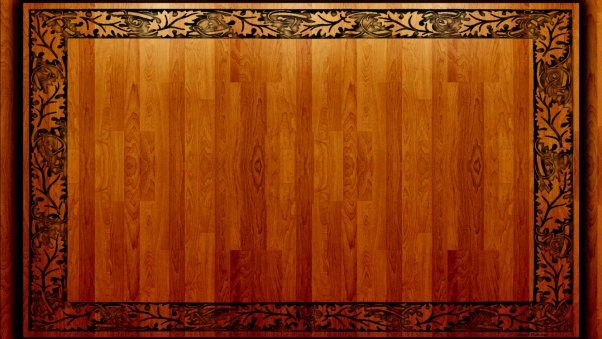
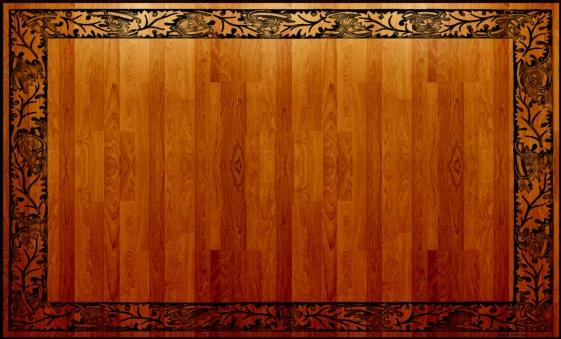
affichage ok, ecouteur bouton en cours

diff --git a/projet-Fanorona-L3-2015/src/IHM/Fenetre.java b/projet-Fanorona-L3-2015/src/IHM/Fenetre.java
@@ -17,19 +17,23 @@ public class Fenetre implements Runnable,Affichage {
 		engine=e;
 	}
 	
-	public void run(){
+	public void run(){		
+
 		frame.setSize(1280, 720);
-		JPanel panelAccueil = new ImagePanel(new ImageIcon("src/images/image1.jpg").getImage());
-		panelAccueil.setLayout(null);
-		
 		int fw = frame.getWidth();
 		int fh = frame.getHeight();
+		JPanel panelAccueil = new ImagePanel(new ImageIcon("src/images/image6.jpg").getImage(), fw, fh);
+		panelAccueil.setLayout(null);
 		
 			//grille
-		monDessin = new AireDeDessin(this);
+		/*monDessin = new AireDeDessin(this);
 			monDessin.addMouseListener(new EcouteurDeSouris(monDessin));
-			monDessin.setBounds(fw/6, (int)(0.3*fh/6), 4*fw/6, 4*fh/6);
-		
+			monDessin.setBounds(fw/6, (int)(0.3*fh/6), 4*fw/6, 4*fh/6);*/
+		JPanel panelPlateau = new ImagePanel(new ImageIcon("src/images/plateau9x5.jpg").getImage(), 4*fw/6, 4*fh/6);
+			panelPlateau.setBounds(fw/6, (int)(0.3*fh/6), 4*fw/6, 4*fh/6);
+		JPanel panelGrille = new ImagePanel(new ImageIcon("src/images/Fanorona.png").getImage(), (int)(3.4*fw/6), (int)(2.8*fh/6));
+			panelGrille.setBounds((int)(1.3*fw/6), (int)(0.9*fh/6), (int)(3.4*fw/6), (int)(2.8*fh/6));
+			
  			//barre de Menu
 		JMenuBar menuBar = new JMenuBar();
 			//menu1
@@ -89,7 +93,7 @@ public class Fenetre implements Runnable,Affichage {
 			
 			//affichages joueurs
 		JLabel j1 = new JLabel(" # Joueur 1 ");
-			j1.setBounds((int)(0.45*fw/6), (int)(0.2*fh/6), (int)(0.8*fw/6), (int)(fh/6));
+			j1.setBounds((int)(0.25*fw/6), (int)(0.2*fh/6), (int)(0.8*fw/6), (int)(fh/6));
 		JLabel idj1 = new JLabel(" Erreur ");
 		JLabel levelj1 = new JLabel(" Erreur ");
 		JLabel j2 = new JLabel(" # Joueur 2 ");
@@ -129,20 +133,20 @@ public class Fenetre implements Runnable,Affichage {
 			idj2 = new JLabel(" Ordinateur ");
 			levelj2 = new JLabel(" Difficile ");
 		}
-			idj1.setBounds((int)(0.45*fw/6), (int)(1.2*fh/6), (int)(0.8*fw/6), (int)(fh/6));
-			levelj1.setBounds((int)(0.45*fw/6), (int)(1.4*fh/6), (int)(0.8*fw/6), (int)(fh/6));
+			idj1.setBounds((int)(0.25*fw/6), (int)(1.2*fh/6), (int)(0.8*fw/6), (int)(fh/6));
+			levelj1.setBounds((int)(0.25*fw/6), (int)(1.4*fh/6), (int)(0.8*fw/6), (int)(fh/6));
 			idj2.setBounds((int)(5.15*fw/6), (int)(1.2*fh/6), (int)(0.8*fw/6), (int)(fh/6));
 			levelj2.setBounds((int)(5.15*fw/6), (int)(1.4*fh/6), (int)(0.8*fw/6), (int)(fh/6));
 		JLabel scoreInt1 = new JLabel("" + engine.partieCourante.nombrePionBlanc);
-			scoreInt1.setBounds((int)(0.45*fw/6), (int)(2.2*fh/6), (int)(0.8*fw/6), (int)(fh/6));
+			scoreInt1.setBounds((int)(0.25*fw/6), (int)(2.2*fh/6), (int)(0.8*fw/6), (int)(fh/6));
 		JLabel scoreInt2 = new JLabel("" + engine.partieCourante.nombrePionNoir);
 			scoreInt2.setBounds((int)(5.15*fw/6), (int)(2.2*fh/6), (int)(0.8*fw/6), (int)(fh/6));
 		JLabel score1 = new JLabel(" Pions restants ");
-			score1.setBounds((int)(0.45*fw/6), (int)(2.4*fh/6), (int)(0.8*fw/6), (int)(fh/6));
+			score1.setBounds((int)(0.25*fw/6), (int)(2.4*fh/6), (int)(0.8*fw/6), (int)(fh/6));
 		JLabel score2 = new JLabel(" Pions restants ");
 			score2.setBounds((int)(5.15*fw/6), (int)(2.4*fh/6), (int)(0.8*fw/6), (int)(fh/6));
 		JLabel tour1 = new JLabel(" A votre tour ! ");
-			tour1.setBounds((int)(0.45*fw/6), (int)(3*fh/6), (int)(0.8*fw/6), (int)(fh/6));
+			tour1.setBounds((int)(0.25*fw/6), (int)(3*fh/6), (int)(0.8*fw/6), (int)(fh/6));
 		JLabel tour2 = new JLabel(" A votre tour ! ");
 			tour2.setBounds((int)(5.15*fw/6), (int)(3*fh/6), (int)(0.8*fw/6), (int)(fh/6));
 		
@@ -151,7 +155,8 @@ public class Fenetre implements Runnable,Affichage {
 		menuBar.add(options);
 		menuBar.add(aide);
 		frame.setJMenuBar(menuBar);
- 		panelAccueil.add(monDessin);
+ 		//panelPlateau.add(panelGrille);
+ 		//panelAccueil.add(monDessin);
  		panelAccueil.add(annuler);
  		panelAccueil.add(refaire);
  		panelAccueil.add(stopper);
@@ -168,6 +173,9 @@ public class Fenetre implements Runnable,Affichage {
  		panelAccueil.add(score2); 		
  		panelAccueil.add(tour1);
  		panelAccueil.add(tour2);
+ 		panelAccueil.add(panelPlateau);
+ 		//panelAccueil.add(panelGrille);
+ 		panelPlateau.add(panelGrille);
  		
  		frame.add(panelAccueil);
 		frame.setResizable(false);

diff --git a/projet-Fanorona-L3-2015/src/IHM/EcouteurDeBouton.java b/projet-Fanorona-L3-2015/src/IHM/EcouteurDeBouton.java
@@ -20,33 +20,46 @@ public class EcouteurDeBouton implements ActionListener{
 	public void actionPerformed(ActionEvent e) {
 		switch (message){
 		case " Nouvelle Partie ":
+			//TODO
 			break;
 		case " Recommencer ":
+			//TODO
 			break;
 		case " Sauvegarder ":
+			//TODO
 			break;
 		case " Charger ":
+			//TODO
 			break;
 		case " Quitter ":
 			System.exit(0);
 			break;
 		case " Paramètres Partie ":
+			//TODO
 			break;
 		case " Préférences ":
+			//TODO
 			break;
 		case " Historique Scores ":
+			//TODO
 			break;
 		case " Règles du Jeu ":
+			//TODO
 			break;
 		case " A Propos ":
+			//TODO
 			break;
 		case " Annuler Coup ":
+			//TODO
 			break;
 		case " Refaire Coup ":
+			//TODO
 			break;
 		case " Pause ":
+			//TODO
 			break;
 		case " Fin du tour ":
+			//TODO
 			break;
 		default:
 			System.out.println("Erreur bouton switch");

diff --git a/projet-Fanorona-L3-2015/src/IHM/AireDeDessin.java b/projet-Fanorona-L3-2015/src/IHM/AireDeDessin.java
@@ -136,19 +136,21 @@ class ImagePanel extends JPanel {
 	 
 	private static final long serialVersionUID = 1L;
 	private Image img;
+	private int width;
+	private int height;
  
-	public ImagePanel(String img) {
-		this(new ImageIcon(img).getImage());
+	public ImagePanel(String img, int x, int y) {
+		this(new ImageIcon(img).getImage(), x, y);
 	}
  
-	public ImagePanel(Image img) {
+	public ImagePanel(Image img, int x, int y) {
 		this.img = img;
+		this.width = x;
+		this.height = y;
 	}
  
 	public void paintComponent(Graphics g) {
-		int fw = Fenetre.frame.getWidth();
-		int fh = Fenetre.frame.getHeight();
-		g.drawImage(img, 0, 0, fw, fh, this);
+		g.drawImage(img, 0, 0, width, height, this);
 	}
 }
 
